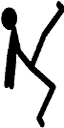
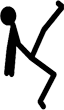
canplayanimation

diff --git a/models.py b/models.py
@@ -8,6 +8,7 @@ class Ninja:
         self.y = y
         self.move = 0
         self.vx = 0
+        self.pic = 0
     def direction(self):
         if self.move == 0:
             self.vx = -22
@@ -57,6 +58,7 @@ class Item():
             self.y -= self.speed
 class World:
     TIMEDELAY = 0.1
+    TIMECHAGE = 0.05
     def __init__(self,width,height):
         self.width = width
         self.height  =height
@@ -65,21 +67,26 @@ class World:
         self.ninja = Ninja(self,568,100)
         self.barrel = Item(self,0,0)
         self.shuriken1 = Item(self,0,0)
-        self.barrel2 = Item(self,0,0)
+        self.knife = Item(self,0,0)
         self.time = 0
-        self.check =0#
-        self.item1 = [self.barrel,self.shuriken1,self.barrel2]
+        self.timepic = 0
+        self.check =0
+        self.item1 = [self.barrel,self.shuriken1,self.knife]
+        self.flip = 0
     def on_key_press(self, key, key_modifiers):
         if key == arcade.key.SPACE:
             self.ninja.direction()
+            self.flip+=1
+            self.flip%=2
     def update(self,delta):
         #print(self.addscore)
         self.score += self.addscore
         self.time += delta
+        self.timepic += delta
         self.ninja.update(delta)    
         self.barrel.update(delta)
         self.shuriken1.update(delta)
-        self.barrel2.update(delta)
+        self.knife.update(delta)
         if(self.time>World.TIMEDELAY):
             for i in self.item1:
                 if(i.y<0):
@@ -100,7 +107,12 @@ class World:
                                 if(xx == 1):
                                     break
             self.check = 0
-            self.time = 0  
+            self.time = 0
+        if(self.timepic>=World.TIMECHAGE):
+            self.ninja.pic+=1
+            self.ninja.pic%=6  
+            print(self.ninja.pic) 
+            self.timepic = 0         
         for i in self.item1:
             #print("in")
             if(self.ninja.onhit(i,50,80)==True):

diff --git a/ninninjump.py b/ninninjump.py
@@ -24,25 +24,29 @@ class NinninWindow(arcade.Window):
         self.background = None
         self.wait_time = 0
         self.rand = 0
+        self.setninja1 = ['images/char1.png','images/char2.png','images/char3.png','images/char4.png','images/char5.png','images/char6.png']
+        self.setninja2 = ['images/char1flip.png','images/char2flip.png','images/char3flip.png','images/char4flip.png','images/char5flip.png','images/char6flip.png']
+        self.setninja = [self.setninja1,self.setninja2]
         arcade.set_background_color(arcade.color.AMAZON)
         self.background = arcade.load_texture("images/background.png")
         self.world = World(width,height)
-        self.ninja = ModelSprite('images/char1.png',model = self.world.ninja)
+        self.ninja = ModelSprite(self.setninja[0][0],model = self.world.ninja)
         self.barrel = ModelSprite('images/item1.png',model = self.world.barrel)
         self.shuriken = ModelSprite('Images/item2.png',model = self.world.shuriken1)
-        self.barrel2 = ModelSprite('images/item1.png',model = self.world.barrel2)
+        self.knife = ModelSprite('images/item3.png',model = self.world.knife)
         
     def on_key_press(self, key, key_modifiers):
         self.world.on_key_press(key, key_modifiers)
     def update(self,delta):
         self.world.update(delta)
+        self.ninja = ModelSprite(self.setninja[self.world.flip][self.world.ninja.pic],model = self.world.ninja)
     def on_draw(self):
         arcade.start_render()
         arcade.draw_texture_rectangle(SCREEN_WIDTH // 2, SCREEN_HEIGHT // 2,SCREEN_WIDTH, SCREEN_HEIGHT, self.background)
         self.ninja.draw()
         self.barrel.draw()
         self.shuriken.draw()
-        self.barrel2.draw()
+        self.knife.draw()
         arcade.draw_text(str(self.world.score),
                          self.width - 325, self.height - 30,
                          arcade.color.BLACK, 20)
